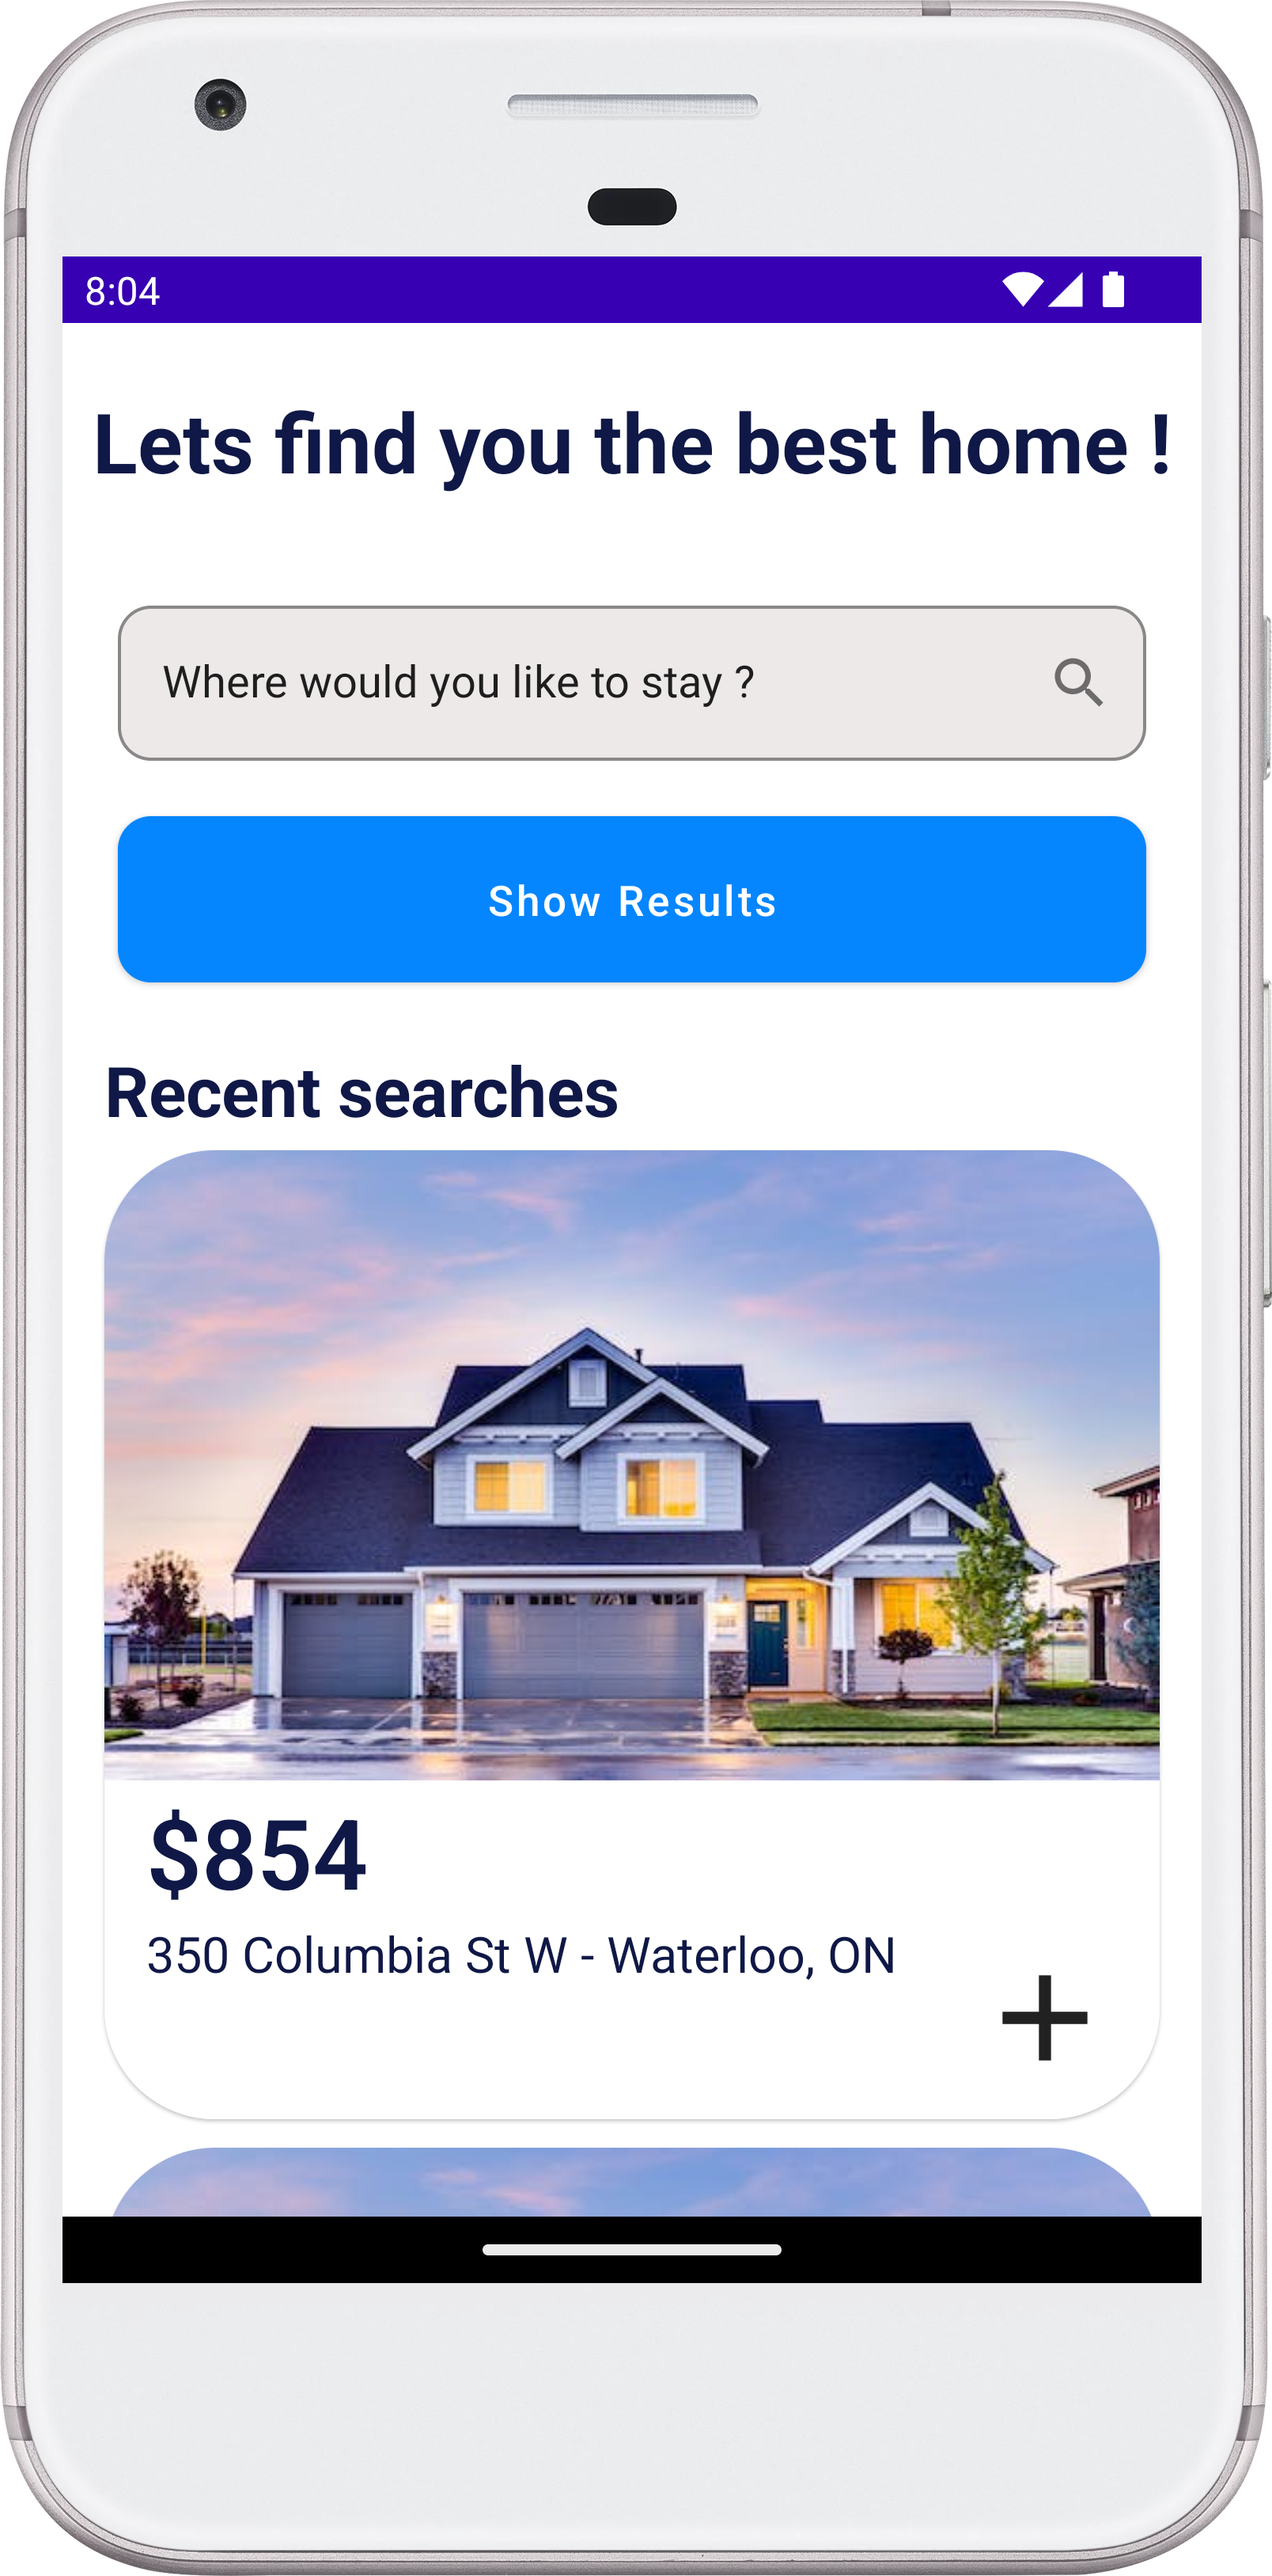
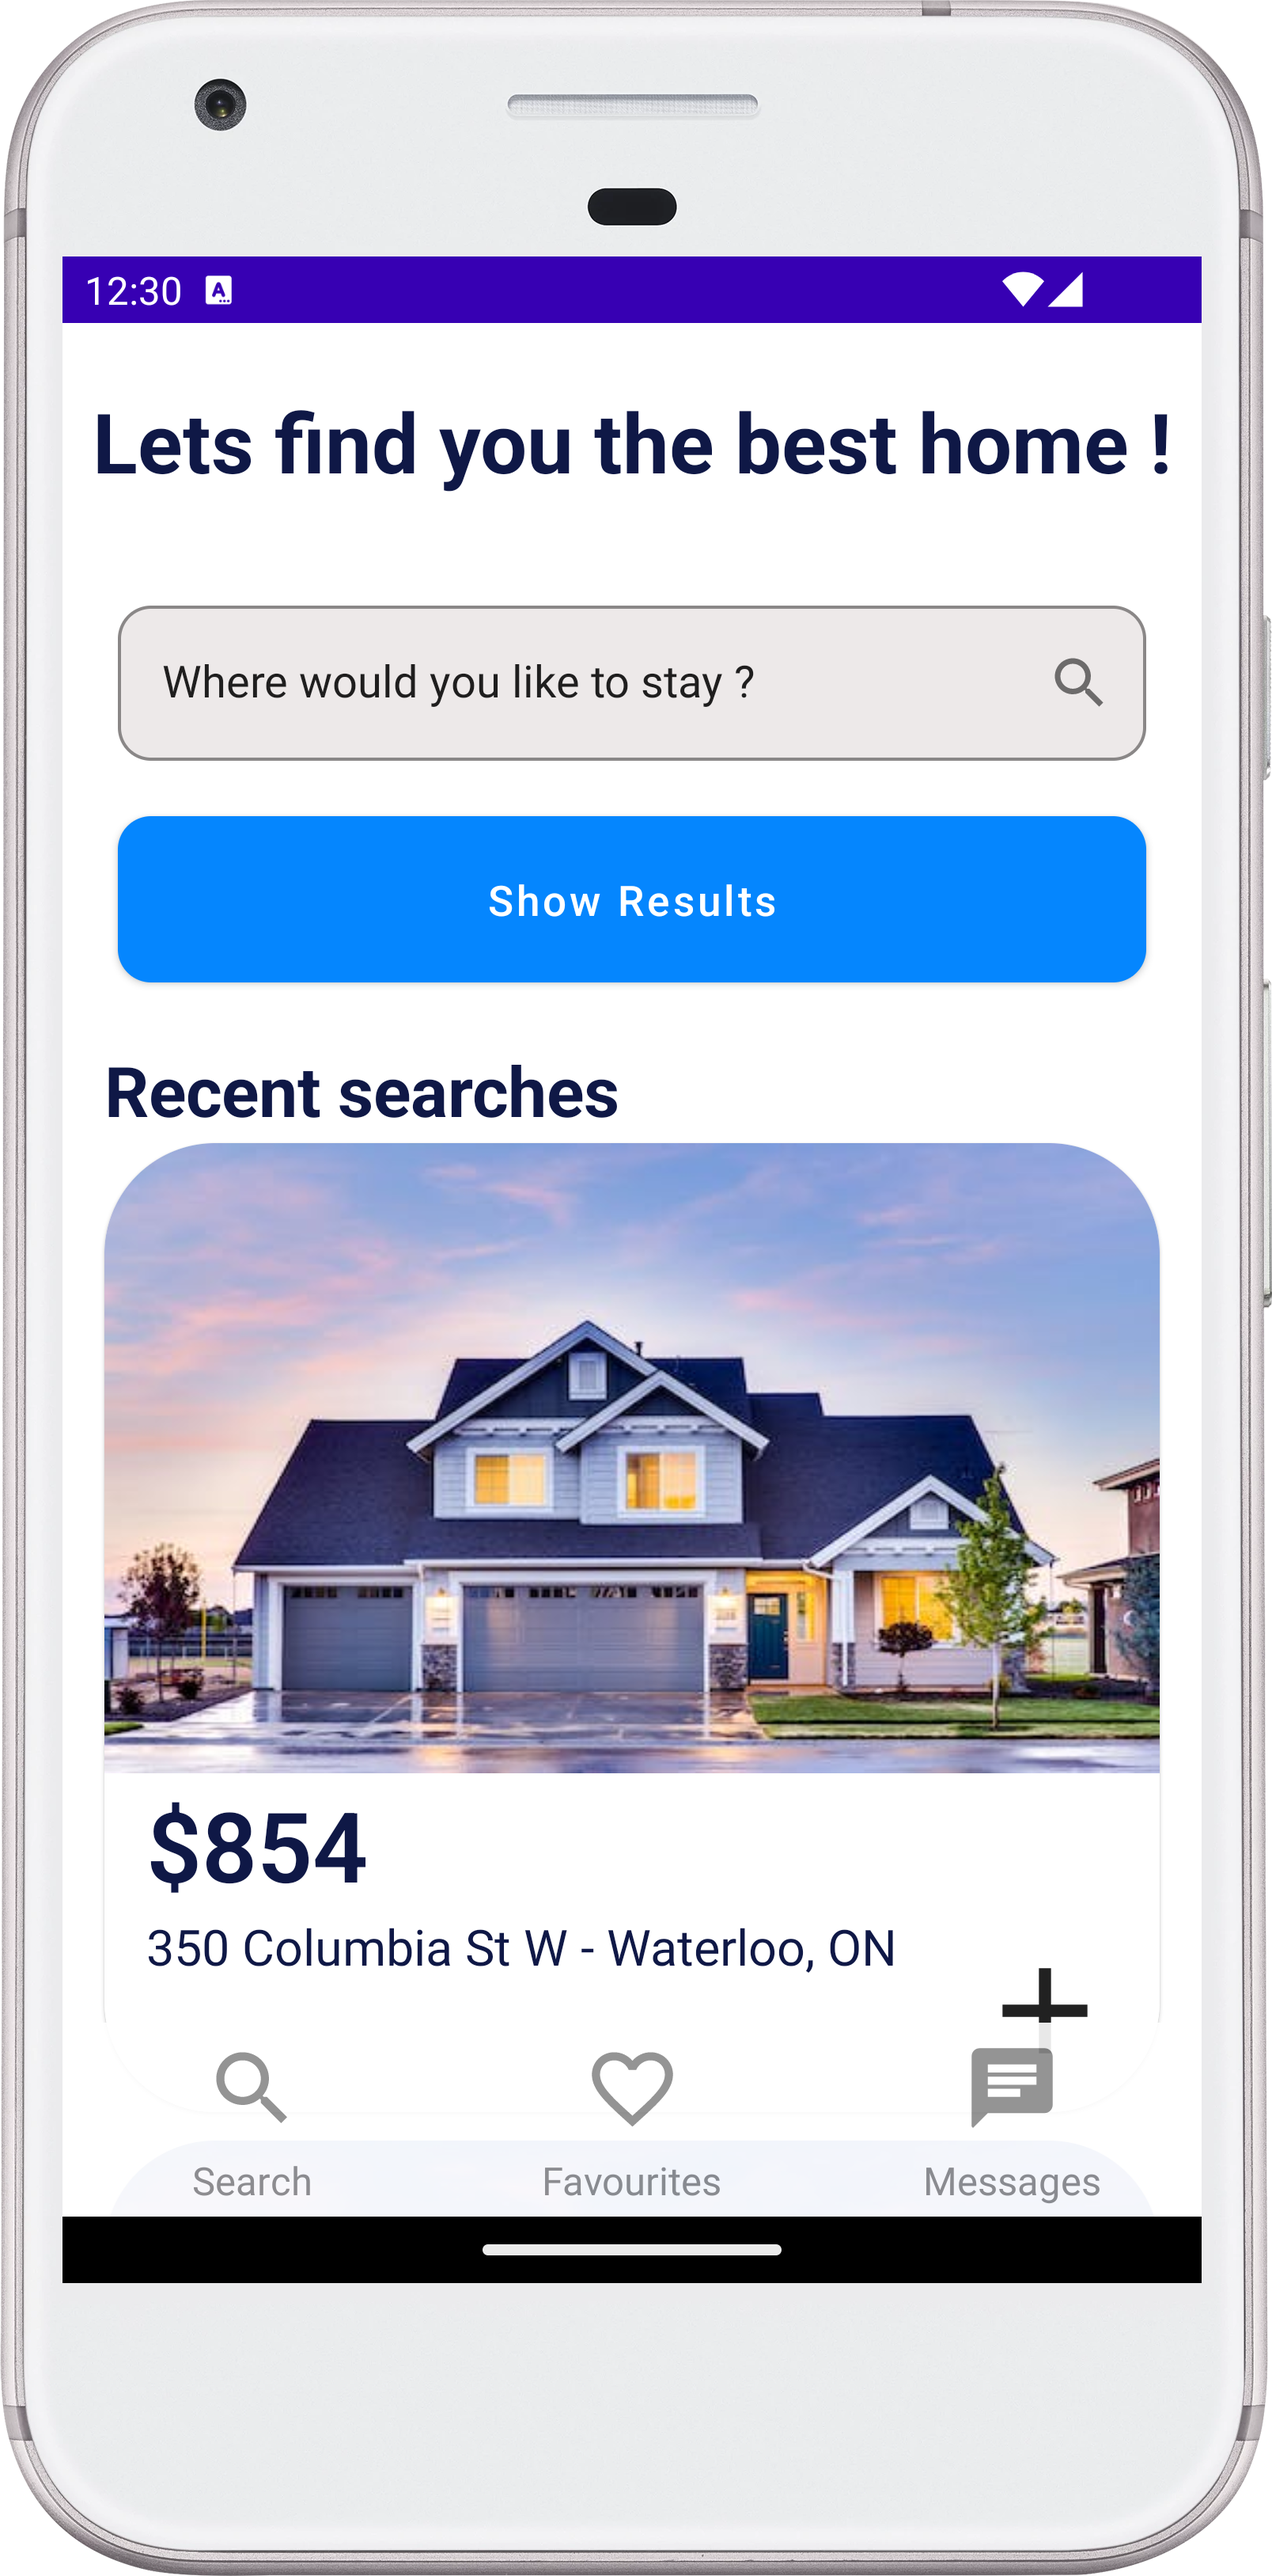
Bottom navigation bar added for SearchPage

diff --git a/app/src/main/java/com/mhdsuhail/ratemyproperty/ui/navbar/BottomNavBar.kt b/app/src/main/java/com/mhdsuhail/ratemyproperty/ui/navbar/BottomNavBar.kt
@@ -1,0 +1,100 @@
+package com.mhdsuhail.ratemyproperty.ui.navbar
+
+import androidx.compose.foundation.background
+import androidx.compose.foundation.layout.*
+import androidx.compose.foundation.shape.CircleShape
+import androidx.compose.material.Icon
+import androidx.compose.material.IconButton
+import androidx.compose.material.Surface
+import androidx.compose.material.Text
+import androidx.compose.runtime.Composable
+import androidx.compose.ui.Alignment
+import androidx.compose.ui.Modifier
+import androidx.compose.ui.draw.alpha
+import androidx.compose.ui.draw.clip
+import androidx.compose.ui.graphics.Color
+import androidx.compose.ui.res.painterResource
+import com.mhdsuhail.ratemyproperty.R
+import androidx.compose.ui.tooling.preview.Preview
+import androidx.compose.ui.unit.dp
+import androidx.compose.ui.unit.sp
+import com.mhdsuhail.ratemyproperty.data.NavBarItem
+import com.mhdsuhail.ratemyproperty.ui.theme.RateMyPropertyTheme
+
+@Preview
+@Composable
+fun BottomNavBarPreview() {
+    RateMyPropertyTheme {
+        Surface() {
+            BottomNavBar()
+        }
+    }
+}
+
+
+@Composable
+fun BottomNavBar() {
+
+    // TODO: Parameterize BottomNavBar and move NavBarItems to AppModule and
+    //  make it a singleton instance
+
+    val listOfNavItems = listOf(
+        NavBarItem(R.drawable.search,"Search","Search Page"),
+        NavBarItem(R.drawable.favourite,"Favourites","Favourites List"),
+        NavBarItem(R.drawable.chat,"Messages","Messages")
+    )
+    Surface(modifier = Modifier.alpha(0.9f)) {
+        Row(
+            modifier = Modifier
+                .fillMaxWidth()
+                .height(70.dp), verticalAlignment = Alignment.CenterVertically
+        ) {
+
+            listOfNavItems.forEach { navBarItem ->
+                Box(
+                    modifier = Modifier
+                        .fillMaxSize()
+                        .weight(1f)
+                ) {
+                    NavBarOption(
+                        imageResourceId = navBarItem.imageResourceId,
+                        name = navBarItem.name,
+                        desc = navBarItem.description
+                    )
+                }
+            }
+        }
+    }
+}
+
+@Composable
+fun NavBarOption(imageResourceId: Int, name: String, desc: String? ){
+
+        Column(
+            modifier = Modifier.fillMaxSize(),
+            verticalArrangement = Arrangement.SpaceEvenly,
+            horizontalAlignment = Alignment.CenterHorizontally
+        ) {
+            IconButton(
+                onClick = { /*TODO*/ },
+                modifier = Modifier
+                    .clip(CircleShape)
+                    .size(40.dp)
+                    .background(Color.White.copy(alpha = 0.15f))
+            ) {
+                Icon(
+                    painter = painterResource(id = imageResourceId),
+                    modifier = Modifier.size(35.dp),
+                    contentDescription = desc,
+                    tint = Color.Gray
+                )
+
+            }
+            Text(
+                text = name,
+                color = Color.Gray,
+                fontSize = 14.sp
+            )
+
+        }
+}

diff --git a/app/src/main/java/com/mhdsuhail/ratemyproperty/ui/searchscreen/SearchScreen.kt b/app/src/main/java/com/mhdsuhail/ratemyproperty/ui/searchscreen/SearchScreen.kt
@@ -15,6 +15,7 @@ import androidx.compose.ui.unit.dp
 import androidx.compose.ui.unit.sp
 import com.mhdsuhail.ratemyproperty.data.Property
 import com.mhdsuhail.ratemyproperty.data.preview.PropertyPreviewParameterProvider
+import com.mhdsuhail.ratemyproperty.ui.navbar.BottomNavBar
 import com.mhdsuhail.ratemyproperty.ui.theme.RateMyPropertyTheme
 
 @Preview(showSystemUi = true)
@@ -23,6 +24,10 @@ fun SearchScreenPreview(){
     SearchScreen(PropertyPreviewParameterProvider().values.toList())
 }
 
+@Composable
+fun TopActionBar(){
+
+}
 
 @Composable
 fun SearchScreen(recentlyViewedProperties: List<Property>) {
@@ -30,7 +35,7 @@ fun SearchScreen(recentlyViewedProperties: List<Property>) {
 
     RateMyPropertyTheme() {
 
-        Scaffold(scaffoldState = scaffoldState) {
+        Scaffold(scaffoldState = scaffoldState, bottomBar = { BottomNavBar() }) {
 
                 Column(
                     modifier = Modifier

diff --git a/app/src/main/java/com/mhdsuhail/ratemyproperty/data/NavBarItem.kt b/app/src/main/java/com/mhdsuhail/ratemyproperty/data/NavBarItem.kt
@@ -1,0 +1,9 @@
+package com.mhdsuhail.ratemyproperty.data
+
+import androidx.compose.ui.graphics.vector.ImageVector
+
+data class NavBarItem(
+    val imageResourceId: Int,
+    val name: String,
+    val description: String?
+)
